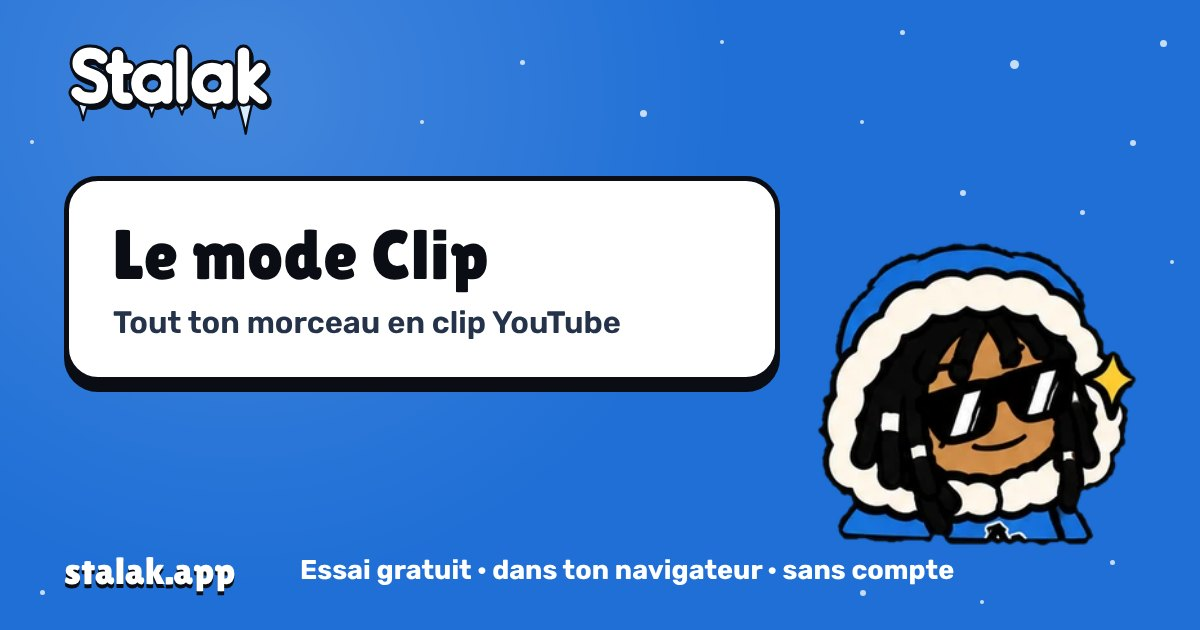
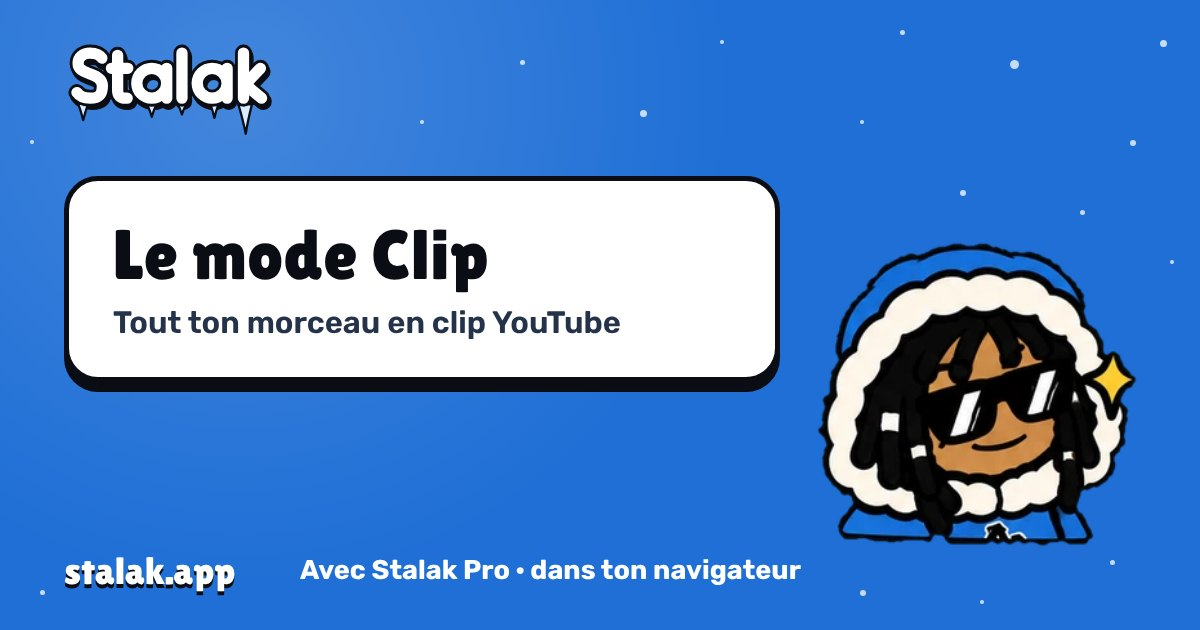
Mode Clip réservé aux abonnés : plus de promesse d'essai gratuit (tarifs, /music-video, /fr/clip, rappeurs, llms.txt, images de partage)
Claude-Session: https://claude.ai/code/session_01H5ikNaGypDr35javPGCrrt

Changed region(s): [[0.2467, 0.8746, 0.8017, 0.9349]]

diff --git a/site_src/fr/clip.html b/site_src/fr/clip.html
@@ -1,9 +1,9 @@
 <!doctype html>
 <html lang="fr"><head><meta charset="utf-8"><meta name="viewport" content="width=device-width,initial-scale=1">
 <title>Ton morceau en clip YouTube, monté sur le temps | Stalak</title>
-<meta name="description" content="Filme quelques prises sur ton son : le mode Clip de Stalak les monte en clip YouTube 16:9, coupé sur le temps, avec des effets sur les drops. Essai gratuit.">
+<meta name="description" content="Filme quelques prises sur ton son : le mode Clip de Stalak les monte en clip YouTube 16:9, coupé sur le temps, avec des effets sur les drops. Avec Stalak Pro ou Creator Plus.">
 <meta property="og:type" content="website"><meta property="og:site_name" content="Stalak"><meta property="og:locale" content="fr_FR">
-<meta property="og:title" content="Tout ton morceau en clip YouTube | Stalak"><meta property="og:description" content="Filme quelques prises sur ton son : le mode Clip de Stalak les monte en clip YouTube 16:9, coupé sur le temps, avec des effets sur les drops. Essai gratuit.">
+<meta property="og:title" content="Tout ton morceau en clip YouTube | Stalak"><meta property="og:description" content="Filme quelques prises sur ton son : le mode Clip de Stalak les monte en clip YouTube 16:9, coupé sur le temps, avec des effets sur les drops. Avec Stalak Pro ou Creator Plus.">
 <meta property="og:url" content="https://stalak.app/fr/clip"><meta property="og:image" content="https://stalak.app/og/clip.jpg"><meta property="og:image:width" content="1200"><meta property="og:image:height" content="630"><meta name="twitter:card" content="summary_large_image">
 <link rel="canonical" href="{{URL}}/fr/clip">
 <link rel="alternate" hreflang="fr" href="{{URL}}/fr/clip"><link rel="alternate" hreflang="en" href="{{URL}}/music-video"><link rel="alternate" hreflang="x-default" href="{{URL}}/music-video">
@@ -53,7 +53,7 @@ footer{max-width:760px;margin:30px auto 0;color:#fff;font-size:13px;text-align:c
 <p class="mv-kicker">Le mode Clip · Stalak Pro</p>
 <h1>Tout ton morceau en clip YouTube</h1>
 <p class="mv-sub">Filme quelques prises sur ton son&nbsp;: Stalak les monte en clip 16:9, coupé sur le temps, avec des effets sur tes drops, tes refrains et tes breaks.</p>
-<p class="mv-go"><a class="btn primary" href="/fr/">Faire mon clip</a><span>Choisis «&nbsp;Clip&nbsp;» à l’étape 1. Essaie-le gratuitement&nbsp;; l’export du clip est avec Stalak Pro.</span></p>
+<p class="mv-go"><a class="btn primary" href="/fr/">Faire mon clip</a><span>Réservé aux abonnés Stalak Pro et Creator Plus. Choisis «&nbsp;Clip&nbsp;» à l’étape 1.</span></p>
 </header>
 <figure class="mv-video">
 <video controls playsinline preload="metadata" poster="/demo/clip.jpg" width="1280" height="720" aria-label="Un clip monté par Stalak à partir de trois prises de « neva die » de 99Sayso"><source src="/demo/clip.mp4" type="video/mp4"></video>
@@ -91,11 +91,11 @@ footer{max-width:760px;margin:30px auto 0;color:#fff;font-size:13px;text-align:c
 <h2 id="priceT">Avec Stalak Pro</h2>
 <p><span class="mv-amt">7,99&nbsp;$</span> par mois, ou 49,99&nbsp;$ par an (4,17&nbsp;$ par mois).</p>
 <p>Pro enlève aussi le filigrane et débloque le karaoké, les paroles automatiques et tous les filtres. Annulable à tout moment&nbsp;; remboursé en entier sous 14 jours.</p>
-<p class="mv-go"><a class="btn primary" href="/fr/">Essaie-le gratuitement</a><span><a href="/fr/tarifs#mode-clip">Voir les tarifs</a></span></p>
+<p class="mv-go"><a class="btn primary" href="/fr/tarifs#mode-clip">Voir les formules</a><span>Réservé aux abonnés Stalak Pro et Creator Plus.</span></p>
 </section>
 <section class="pr-faq" aria-labelledby="faqT">
 <h3 id="faqT">Questions fréquentes</h3>
-<details><summary>Je peux l’essayer gratuitement&nbsp;?</summary><p>Oui. Choisis «&nbsp;Clip&nbsp;» à l’étape 1 et regarde tout ton clip dans l’aperçu, effets et paroles compris, avec le petit filigrane. L’export du clip 16:9 est avec Stalak Pro.</p></details>
+<details><summary>Le mode Clip est gratuit&nbsp;?</summary><p>Non. Le mode Clip est réservé aux abonnés Stalak Pro et Creator Plus. En gratuit, tu fais des vidéos verticales 9:16 pour TikTok, Reels et Shorts.</p></details>
 <details><summary>Il me faut quoi&nbsp;?</summary><p>Ton son (MP3, WAV, M4A, ou une vidéo&nbsp;: Stalak prend son son) et quelques prises où tu chantes dessus, filmées avec le son qui joue fort. Rien à télécharger et pas de compte pour l’essayer.</p></details>
 <details><summary>Je peux utiliser des prises filmées à la verticale&nbsp;?</summary><p>Oui. Dans un clip 16:9, une prise verticale s’affiche en entier, au milieu de l’image, sur une copie floutée d’elle-même. Les prises horizontales remplissent toute l’image.</p></details>
 <details><summary>Je peux ajouter mes paroles&nbsp;?</summary><p>Oui, si tu en veux. Colle-les et cale-les en tapant, ou laisse Stalak les écrire et les caler à partir de ta voix avec les paroles automatiques (Stalak Pro).</p></details>

diff --git a/site_src/music-video.html b/site_src/music-video.html
@@ -1,9 +1,9 @@
 <!doctype html>
 <html lang="en"><head><meta charset="utf-8"><meta name="viewport" content="width=device-width,initial-scale=1">
 <title>Your Whole Song as a YouTube Music Video | Stalak</title>
-<meta name="description" content="Film a few takes of your song. Stalak’s Music video mode edits them into a 16:9 YouTube video, cut on the beat, with effects on the drops. Try it free.">
+<meta name="description" content="Film a few takes of your song. Stalak’s Music video mode edits them into a 16:9 YouTube video, cut on the beat, with effects on the drops. With Stalak Pro or Creator Plus.">
 <meta property="og:type" content="website"><meta property="og:site_name" content="Stalak"><meta property="og:locale" content="en_US">
-<meta property="og:title" content="Your Whole Song as a YouTube Music Video | Stalak"><meta property="og:description" content="Film a few takes of your song. Stalak’s Music video mode edits them into a 16:9 YouTube video, cut on the beat, with effects on the drops. Try it free.">
+<meta property="og:title" content="Your Whole Song as a YouTube Music Video | Stalak"><meta property="og:description" content="Film a few takes of your song. Stalak’s Music video mode edits them into a 16:9 YouTube video, cut on the beat, with effects on the drops. With Stalak Pro or Creator Plus.">
 <meta property="og:url" content="https://stalak.app/music-video"><meta property="og:image" content="https://stalak.app/og/music-video.jpg"><meta property="og:image:width" content="1200"><meta property="og:image:height" content="630"><meta name="twitter:card" content="summary_large_image">
 <link rel="canonical" href="{{URL}}/music-video">
 <link rel="alternate" hreflang="en" href="{{URL}}/music-video"><link rel="alternate" hreflang="fr" href="{{URL}}/fr/clip"><link rel="alternate" hreflang="x-default" href="{{URL}}/music-video">
@@ -53,7 +53,7 @@ footer{max-width:760px;margin:30px auto 0;color:#fff;font-size:13px;text-align:c
 <p class="mv-kicker">Music video mode · Stalak Pro</p>
 <h1>Your whole song as a YouTube music video</h1>
 <p class="mv-sub">Film a few takes of your song. Stalak edits them into a 16:9 video, cut on the beat, with effects on the drops, choruses and breaks.</p>
-<p class="mv-go"><a class="btn primary" href="/">Make my music video</a><span>Pick “Music video” at step 1. Try it free; exporting the video takes Stalak Pro.</span></p>
+<p class="mv-go"><a class="btn primary" href="/">Make my music video</a><span>For Stalak Pro and Creator Plus subscribers. Pick “Music video” at step 1.</span></p>
 </header>
 <figure class="mv-video">
 <video controls playsinline preload="metadata" poster="/demo/clip.jpg" width="1280" height="720" aria-label="A music video made by Stalak from three takes of “neva die” by 99Sayso"><source src="/demo/clip.mp4" type="video/mp4"></video>
@@ -91,11 +91,11 @@ footer{max-width:760px;margin:30px auto 0;color:#fff;font-size:13px;text-align:c
 <h2 id="priceT">Comes with Stalak Pro</h2>
 <p><span class="mv-amt">$7.99</span>/month, or $49.99 a year ($4.17/month).</p>
 <p>Pro also removes the watermark and unlocks karaoke lyrics, auto lyrics and every filter. Cancel anytime; full refund within 14 days.</p>
-<p class="mv-go"><a class="btn primary" href="/">Try it free</a><span><a href="/pricing#music-video">See pricing</a></span></p>
+<p class="mv-go"><a class="btn primary" href="/pricing#music-video">See the plans</a><span>For Stalak Pro and Creator Plus subscribers.</span></p>
 </section>
 <section class="pr-faq" aria-labelledby="faqT">
 <h3 id="faqT">FAQ</h3>
-<details><summary>Can I try it for free?</summary><p>Yes. Pick “Music video” at step 1 and watch your whole music video in the preview, effects and lyrics included, with the small watermark. Exporting the 16:9 video takes Stalak Pro.</p></details>
+<details><summary>Is Music video mode free?</summary><p>No. Music video mode is for Stalak Pro and Creator Plus subscribers. On Free, you make vertical 9:16 videos for TikTok, Reels and Shorts.</p></details>
 <details><summary>What do I need?</summary><p>Your song (MP3, WAV, M4A, or a video: Stalak uses its sound) and a few takes of you performing it, filmed with the song playing out loud. No download and no sign-up to try it.</p></details>
 <details><summary>Can I use vertical phone takes?</summary><p>Yes. In a 16:9 music video, a vertical take shows whole, in the middle of the frame, over a blurred copy of itself. Horizontal takes fill the whole frame.</p></details>
 <details><summary>Can I add lyrics?</summary><p>Yes, if you want them. Paste yours and tap along to sync them, or let Stalak write and sync them from your vocals with auto lyrics (Stalak Pro).</p></details>

diff --git a/site_src/fr/tarifs.html b/site_src/fr/tarifs.html
@@ -104,7 +104,7 @@ footer{max-width:760px;margin:30px auto 0;color:#fff;font-size:13px;text-align:c
 <li><strong>C’est toi qui choisis</strong> : Sobre ou Intense, puis touche un effet pour le changer, l’enlever ou en ajouter un</li>
 <li><strong>Le morceau entier</strong> : coupe le début et la fin si tu veux</li>
 </ul>
-<p class="pr-clip-go"><a class="btn primary" href="/fr/">Essaie-le gratuitement</a><span>Choisis « Clip » à l’étape 1. L’export du clip est avec Stalak Pro. <a href="/fr/clip">Voir un vrai exemple</a></span></p>
+<p class="pr-clip-go"><a class="btn primary" href="/fr/?plan=pro-year#pro">Choisir Pro</a><span>Réservé aux abonnés Stalak Pro et Creator Plus. <a href="/fr/clip">Voir un vrai exemple</a></span></p>
 </section>
 </div>
 </main>
@@ -142,7 +142,7 @@ footer{max-width:760px;margin:30px auto 0;color:#fff;font-size:13px;text-align:c
 <details open id="essai"><summary>Comment marche l’essai gratuit ?</summary><p>Tu essaies Stalak Pro pendant 7 jours. Une carte est demandée au départ, mais rien n’est prélevé pendant ces 7 jours. Si tu n’annules pas avant la fin de l’essai, ton abonnement commence et ta carte est prélevée : 7,99 $ par mois, ou 49,99 $ pour l’année si tu as choisi l’annuel. Tu annules en un clic depuis ton compte, à tout moment avant la fin de l’essai. L’essai est pour Stalak Pro seulement (Creator Plus est payant dès le premier jour), une seule fois par personne.</p></details>
 <details open><summary>C’est vraiment gratuit ?</summary><p>Oui, sans limite de vidéos, sans compte et sans pub : tu ouvres stalak.app et tu montes. Tes vidéos gratuites portent un petit filigrane (le visage de la mascotte et stalak.app). Pour tes vidéos sans filigrane, prends Stalak Pro.</p></details>
 <details open><summary>Comment enlever le filigrane ?</summary><p>Avec Stalak Pro ou Creator Plus : à partir de là, chaque vidéo que tu exportes sort sans filigrane. En gratuit, il est sur toutes les vidéos, et celles que tu as exportées avant ton abonnement le gardent.</p></details>
-<details><summary>C’est quoi, le mode Clip ?</summary><p>Choisis « Clip » à l’étape 1 : Stalak monte tes prises sur tout le morceau, en vidéo 16:9 pour YouTube. Tu peux couper le début et la fin, ou l’exporter aussi en vertical. Les effets tombent sur les moments forts de ton son (drops, refrains, breaks) : choisis Sobre ou Intense, puis touche un effet pour le changer ou l’enlever. Les paroles à l’écran sont désactivées par défaut, et tu peux ajouter les tiennes. Essaie-le gratuitement dans l’aperçu ; l’export du clip est avec Stalak Pro.</p></details>
+<details><summary>C’est quoi, le mode Clip ?</summary><p>Choisis « Clip » à l’étape 1 : Stalak monte tes prises sur tout le morceau, en vidéo 16:9 pour YouTube. Tu peux couper le début et la fin, ou l’exporter aussi en vertical. Les effets tombent sur les moments forts de ton son (drops, refrains, breaks) : choisis Sobre ou Intense, puis touche un effet pour le changer ou l’enlever. Les paroles à l’écran sont désactivées par défaut, et tu peux ajouter les tiennes. Le mode Clip est réservé aux abonnés Stalak Pro et Creator Plus.</p></details>
 <details><summary>Quelle formule choisir ?</summary><p><strong>Stalak Pro</strong> si tu veux ton clip entier ou si tu postes souvent : le clip YouTube 16:9, tes vidéos sans filigrane, le karaoké, tes paroles écrites automatiquement et tous les filtres. <strong>Creator Plus</strong> si tu veux un mois de contenu d’un coup : les packs de 5 à 30 vidéos différentes du même son, la sauvegarde en ligne automatique et « Parler à un humain ».</p></details>
 <details open><summary>Mensuel ou annuel, quelle différence ?</summary><p>Aucune dans l’app : tu as les mêmes fonctions. L’annuel coûte moins cher : 5 mois offerts. Pro 49,99 $ par an au lieu de 95,88 $ pour 12 mois, Creator Plus 99,99 $ par an au lieu de 179,88 $.</p></details>
 <details><summary>Pourquoi des prix en dollars ?</summary><p>Stalak est vendu dans le monde entier, alors les prix sont fixés en dollars US. Au paiement, Paddle affiche le montant dans ta devise, avec les taxes de ton pays (la TVA en Europe), avant que tu paies.</p></details>

diff --git a/site_src/pricing.html b/site_src/pricing.html
@@ -104,7 +104,7 @@ footer{max-width:760px;margin:30px auto 0;color:#fff;font-size:13px;text-align:c
 <li><strong>Your call</strong>: pick Subtle or Intense, then tap any effect to change it, remove it or add one</li>
 <li><strong>The whole song</strong>: trim the start and the end if you want</li>
 </ul>
-<p class="pr-clip-go"><a class="btn primary" href="/">Try it free</a><span>Pick “Music video” at step 1. Exporting the video takes Stalak Pro. <a href="/music-video">See a real example</a></span></p>
+<p class="pr-clip-go"><a class="btn primary" href="/?plan=pro-year#pro">Choose Pro</a><span>For Stalak Pro and Creator Plus subscribers. <a href="/music-video">See a real example</a></span></p>
 </section>
 </div>
 </main>
@@ -142,7 +142,7 @@ footer{max-width:760px;margin:30px auto 0;color:#fff;font-size:13px;text-align:c
 <details open id="trial"><summary>How does the free trial work?</summary><p>You try Stalak Pro for 7 days. A card is required to start, but nothing is charged during those 7 days. If you don’t cancel before the trial ends, your subscription starts and your card is charged: $7.99 a month, or $49.99 for the year if you picked yearly. You cancel in one click from your account, any time before the trial ends. The trial is for Stalak Pro only (Creator Plus is paid from day one), once per person.</p></details>
 <details open><summary>Is it really free?</summary><p>Yes. No video limit, no account and no ads: just open stalak.app and start editing. Free videos carry a small watermark (our mascot’s face and stalak.app). Want your videos without it? Go Pro.</p></details>
 <details open><summary>How do I remove the watermark?</summary><p>Go Pro or Creator Plus: from then on, every video you export comes out with no watermark. On Free, it’s on every video, and videos you exported before subscribing keep it.</p></details>
-<details><summary>What is Music video mode?</summary><p>Pick “Music video” at step 1, and Stalak edits your takes over the whole song into a 16:9 video for YouTube. You can trim the start and the end, or export it vertical too. Effects land on the big moments of your song (drops, choruses, breaks): pick Subtle or Intense, then tap any effect to change it or remove it. On-screen lyrics are off by default, and you can add yours. Try it free in the preview; exporting the video takes Stalak Pro.</p></details>
+<details><summary>What is Music video mode?</summary><p>Pick “Music video” at step 1, and Stalak edits your takes over the whole song into a 16:9 video for YouTube. You can trim the start and the end, or export it vertical too. Effects land on the big moments of your song (drops, choruses, breaks): pick Subtle or Intense, then tap any effect to change it or remove it. On-screen lyrics are off by default, and you can add yours. Music video mode is for Stalak Pro and Creator Plus subscribers.</p></details>
 <details><summary>Which plan should I pick?</summary><p><strong>Stalak Pro</strong> if you want the full music video or post a lot: 16:9 music videos for YouTube, no watermark, karaoke lyrics, auto lyrics and every filter. <strong>Creator Plus</strong> if you want a month of content in one go: packs of 5 to 30 different videos from one song, automatic cloud saving and “Talk to a human”.</p></details>
 <details open><summary>Monthly or yearly, what’s the difference?</summary><p>Same features either way. Yearly just costs less: 5 months free. Pro is $49.99 a year instead of $95.88 for 12 months, and Creator Plus is $99.99 a year instead of $179.88.</p></details>
 <details><summary>Why are prices in dollars?</summary><p>Prices are set in US dollars. At checkout, Paddle shows the final amount, including any sales tax or VAT where you live, before you pay. Outside the US, it’s shown in your local currency.</p></details>

diff --git a/site_src/music-video-maker-for-rappers.html b/site_src/music-video-maker-for-rappers.html
@@ -34,7 +34,7 @@ video{width:100%;max-width:340px;display:block;margin:12px auto;border:3px solid
 <main>
 <h1>A music video maker built by a rapper, for rappers</h1>
 <p class="lead">Stalak turns a few phone takes into a rap video cut on the beat. Drop your song, add your takes, and export a vertical snippet for TikTok, Reels or Shorts, or the whole song as a 16:9 music video for YouTube with Stalak Pro. It runs in your browser, free to start.</p>
-<p><a class="cta" href="/?ref=seo">Make my music video, free</a></p>
+<p><a class="cta" href="/?ref=seo">Make my snippet, free</a></p>
 <!--DEMO--><figure class="ba"><div class="ba-row"><div class="ba-before"><img src="/demo/takes.jpg" width="884" height="512" loading="lazy" alt="Three takes of the same song by 99Sayso, filmed in front of mountains, in an attic and in a garden"><p class="ba-l">Before: 3 takes</p></div><div class="ba-arrow" aria-hidden="true">→</div><div class="ba-after"><video src="/demo/edit.mp4" poster="/demo/edit.jpg" width="432" height="768" controls muted loop playsinline preload="none" aria-label="After: the video Stalak edited from these three takes, cut on the beat"></video><p class="ba-l">After: Stalak’s edit</p></div></div><figcaption>Real takes by 99Sayso, edited by Stalak: one cut per bar, the lip sync locked. Play it with the sound on.</figcaption></figure><!--/DEMO-->
 <h2>Made for how rappers actually post</h2>
 <ul><li>Post the same song every day without re-editing: Creator Plus makes packs of 5 to 30 videos, each cut differently.</li><li>Full 16:9 music video mode with effects like flash, zoom, shake and slow-mo (Pro).</li><li>Auto lyrics: Stalak writes and syncs your bars from your vocals (Pro).</li><li>Built by 99Sayso, an independent rapper who coded Stalak for his own videos.</li></ul>
@@ -54,7 +54,7 @@ video{width:100%;max-width:340px;display:block;margin:12px auto;border:3px solid
 <p class="founder">Stalak is made by 99Sayso, an independent rapper from the Alaska collective. He coded it to cut his own takes to the beat.</p>
 <h2>More guides</h2>
 <ul class="more"><li><a href="/lip-sync-video-editor">Lip-sync video editor</a></li><li><a href="/rap-snippet-video">Rap snippet video</a></li><li><a href="/lip-sync-videos-for-singers">Performance videos for singers</a></li><li><a href="/how-to-make-a-lip-sync-video">How to make a lip-sync video</a></li><li><a href="/edit-video-to-the-beat">Edit video to the beat</a></li></ul>
-<p><a class="cta" href="/?ref=seo">Make my music video, free</a></p>
+<p><a class="cta" href="/?ref=seo">Make my snippet, free</a></p>
 </main>
 <footer><a href="/pricing">Pricing</a> · <a href="/terms">Terms</a> · <a href="/refunds">Refunds</a> · <a href="/privacy">Privacy</a> · <a href="/legal-notice">Legal notice</a> · <a href="/privacy#cookies">Cookie settings</a> · <a href="/privacy#choices">Your Privacy Choices</a></footer>
 </body></html>

diff --git a/site_drafts/make_og.py b/site_drafts/make_og.py
@@ -19,9 +19,9 @@ GUIDES = [   # slug, title on the picture, the mascot
     ('lip-sync-videos-for-singers', 'Performance videos for singers', 'Several takes, one performance', 'love'),
     ('how-to-make-a-lip-sync-video', 'How to make a lip-sync video', 'Song, takes, lyrics, edit: 4 steps', 'hello'),
     ('edit-video-to-the-beat', 'Edit video to the beat', 'Cuts that land on the beat', 'gg'),
-    # Marketing & croissance (07/11): the « Clip » page (Music video mode, a Pro export: « Try it free », not « Free »)
-    ('music-video', 'Music video mode', 'Your whole song as a YouTube music\u00a0video', 'cool', 'Try it free · in your browser · no sign-up'),
-    ('clip', 'Le mode Clip', 'Tout ton morceau en clip YouTube', 'cool', 'Essai gratuit · dans ton navigateur · sans compte'),
+    # Marketing & croissance (07/11): the « Clip » page (Music video mode). 24/11: reserved to subscribers, no free trial any more (owner's decision)
+    ('music-video', 'Music video mode', 'Your whole song as a YouTube music\u00a0video', 'cool', 'Stalak Pro · in your browser'),
+    ('clip', 'Le mode Clip', 'Tout ton morceau en clip YouTube', 'cool', 'Avec Stalak Pro · dans ton navigateur'),
     # Marketing & croissance (13/11, audit point 8): the legal pages, in their own language (the words of each page's description)
     ('terms', 'Terms', 'Plans, renewal, payment and refunds', 'think'),
     ('refunds', 'Refund policy', '14 days to change your mind, full refund', 'money'),

diff --git a/docs/STATUS.md b/docs/STATUS.md
@@ -375,6 +375,7 @@
   - **15/11, 21 h 30 : branché sur « Studio Stalak »** (règles 11 et 12). Réseaux sociaux programme seulement les fiches `videos` au statut `valide` (légende, mots-clés, date, heure et vidéo pris dans la fiche), puis les passe en `programme` (avec `zernioId`, champ ajouté, à confirmer par le Chef de projet) et en `publie`. La tâche du samedi passe aussi en `publie` les fiches publiées. Goûts (`da`) lus avant chaque lot ; chaque remarque du propriétaire y va. Le fichier de lot et le dossier Drive de Marketing sont abandonnés.
 
 ### Marketing & croissance
+- **24/11, 18 h 30 : mode Clip réservé aux abonnés, plus aucune promesse d’essai gratuit** (décision du propriétaire du 24/11, demande du Chef) : Tarifs EN/FR (bloc « Mode Clip » : « Choose Pro / Choisir Pro » + « Réservé aux abonnés Stalak Pro et Creator Plus », question « C’est quoi le mode Clip »), `/music-video` et `/fr/clip` (description, sous le bouton du haut, bouton du bas « See the plans / Voir les formules », question « Le mode Clip est gratuit ? Non… »), `music-video-maker-for-rappers` (bouton « Make my snippet, free »), `llms.txt`, images de partage `og/music-video.jpg` et `og/clip.jpg` redessinées. L’essai Pro de 7 jours reste sur les cartes Pro. Branche `marketing/clip-reserve-abonnes`.
 - **23/11, 8 h : essai de 7 jours de Stalak Pro, textes du site (branche `marketing/essai-pro`, partie de `main` à jour)**, **pas PRÊT : attend la fusion de la branche d’App** (et de Comptes : sans l’essai dans Paddle, le bouton promettrait ce qui n’existe pas). Tarifs FR/EN, carte Pro : bouton « Essayer 7 jours gratuits » / « Try 7 days free » (mêmes liens `?plan=pro-month|pro-year#pro`), dessous : carte demandée, rien de prélevé pendant 7 jours, puis 7,99 $ par mois ou 49,99 $ pour l’année selon le choix mensuel / annuel, sauf annulation avant la fin de l’essai ; taille du 4,17 $ inchangée. Questions fréquentes : « Comment marche l’essai gratuit ? » en premier, ouverte (`#essai` / `#trial`) : carte, rien pendant 7 jours, prélèvement ensuite, rappel avant, annulation depuis le compte, Pro seulement, une fois par personne. Accueil FR/EN : une ligne discrète dans la bande glace, sous « Stalak, c’est quoi ? ». Aucune mention de la vidéo offerte.
 - **23/11, 5 h : « Bandes de glace » codées (branche `marketing/bandes-de-glace`, partie de `main` à jour)** : nouveau `src/bands.css` (dans le style de l’app et `/site.css`). Accueil FR/EN : éditeur, compteur et « Sans / Avec Stalak » restent sur le bleu à neige ; puis, en enfants de `<body>` comme le pied de page (hors de la colonne, rien ne les coupe) : avis clients sur bande bleu nuit #0e3f8f (fondu des bords vers le bleu nuit, plus de cartes transparentes), « Stalak, c’est quoi ? » et le badge « by Alaska » sur bande glace #d6ecff (texte noir encre, liens bleu nuit), puis le pied de page noir. Chaque bande et le pied de page commencent par un rebord + une rangée de stalactites de la couleur de la partie du dessus, contour noir épais. Bandes collées, pleine largeur, aucun défilement horizontal (mesuré à 320, 390, 1280, 1440 px). Les bandes se cachent sur l’écran « vidéo prête » (`body.isdone`). Tarifs FR/EN : tableau de comparaison sur bande bleu nuit, questions sur bande glace (cartes blanches gardées, sans leurs propres stalactites). Pages d’aide : pas de bandes (chaque page est un seul article dans une carte blanche ; le couper casserait la lecture). Premier écran du téléphone non touché.
 - **23/11, 1 h 30 : les 6 animations choisies par le propriétaire (« j’aime les 6 ») sont codées (branche `marketing/vente-22-11`)** : (1) ordinateur : le titre de l’accueil arrive un mot par temps, une fois ; (2) à côté de « Avec Stalak » : le vrai montage d’exemple avec une image de chacune des 3 prises, allumée quand elle est à l’écran, et ses 4 mesures avec une tête de lecture (coupes mesurées : 1,53 / 3,07 / 4,60 s), ordinateur et téléphone ; (3) ordinateur avec souris : « Importer mon son » a ses tirets qui avancent et un petit égaliseur, plus vifs sous la souris ; (4) note des avis : 5 étoiles qui se remplissent jusqu’à 4,7 et le chiffre qui monte ; (5) les blocs sous le premier écran arrivent en douceur, une fois (accueil, Tarifs, pages d’aide) ; (6) boutons principaux des pages du site (`a.cta`, `.pr-cta`) : un peu de neige à l’appui. Rien avec « moins d’animations ». `transform` et `opacity` seulement. Premier écran du téléphone non touché (1 et 3 ne s’y appliquent pas). Nouveaux fichiers : `src/fx.js`, `src/fx.css`.
